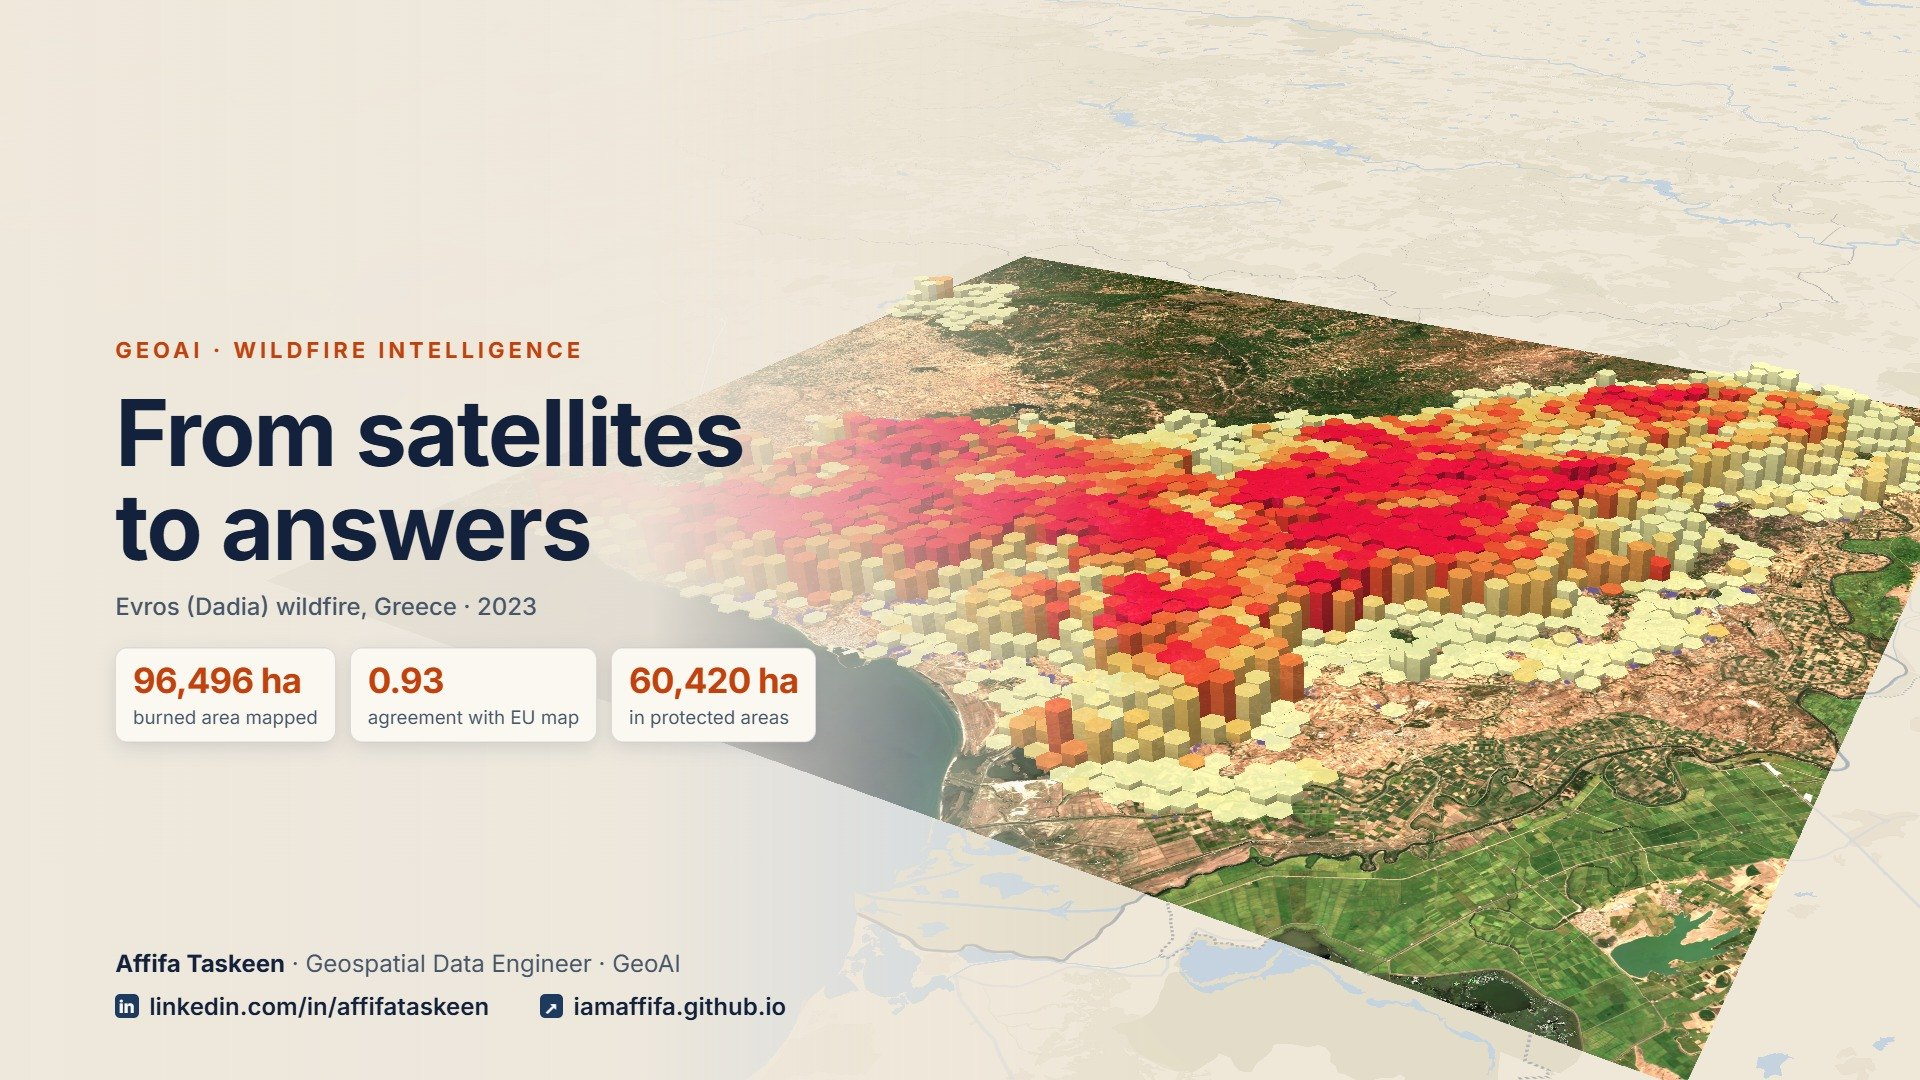
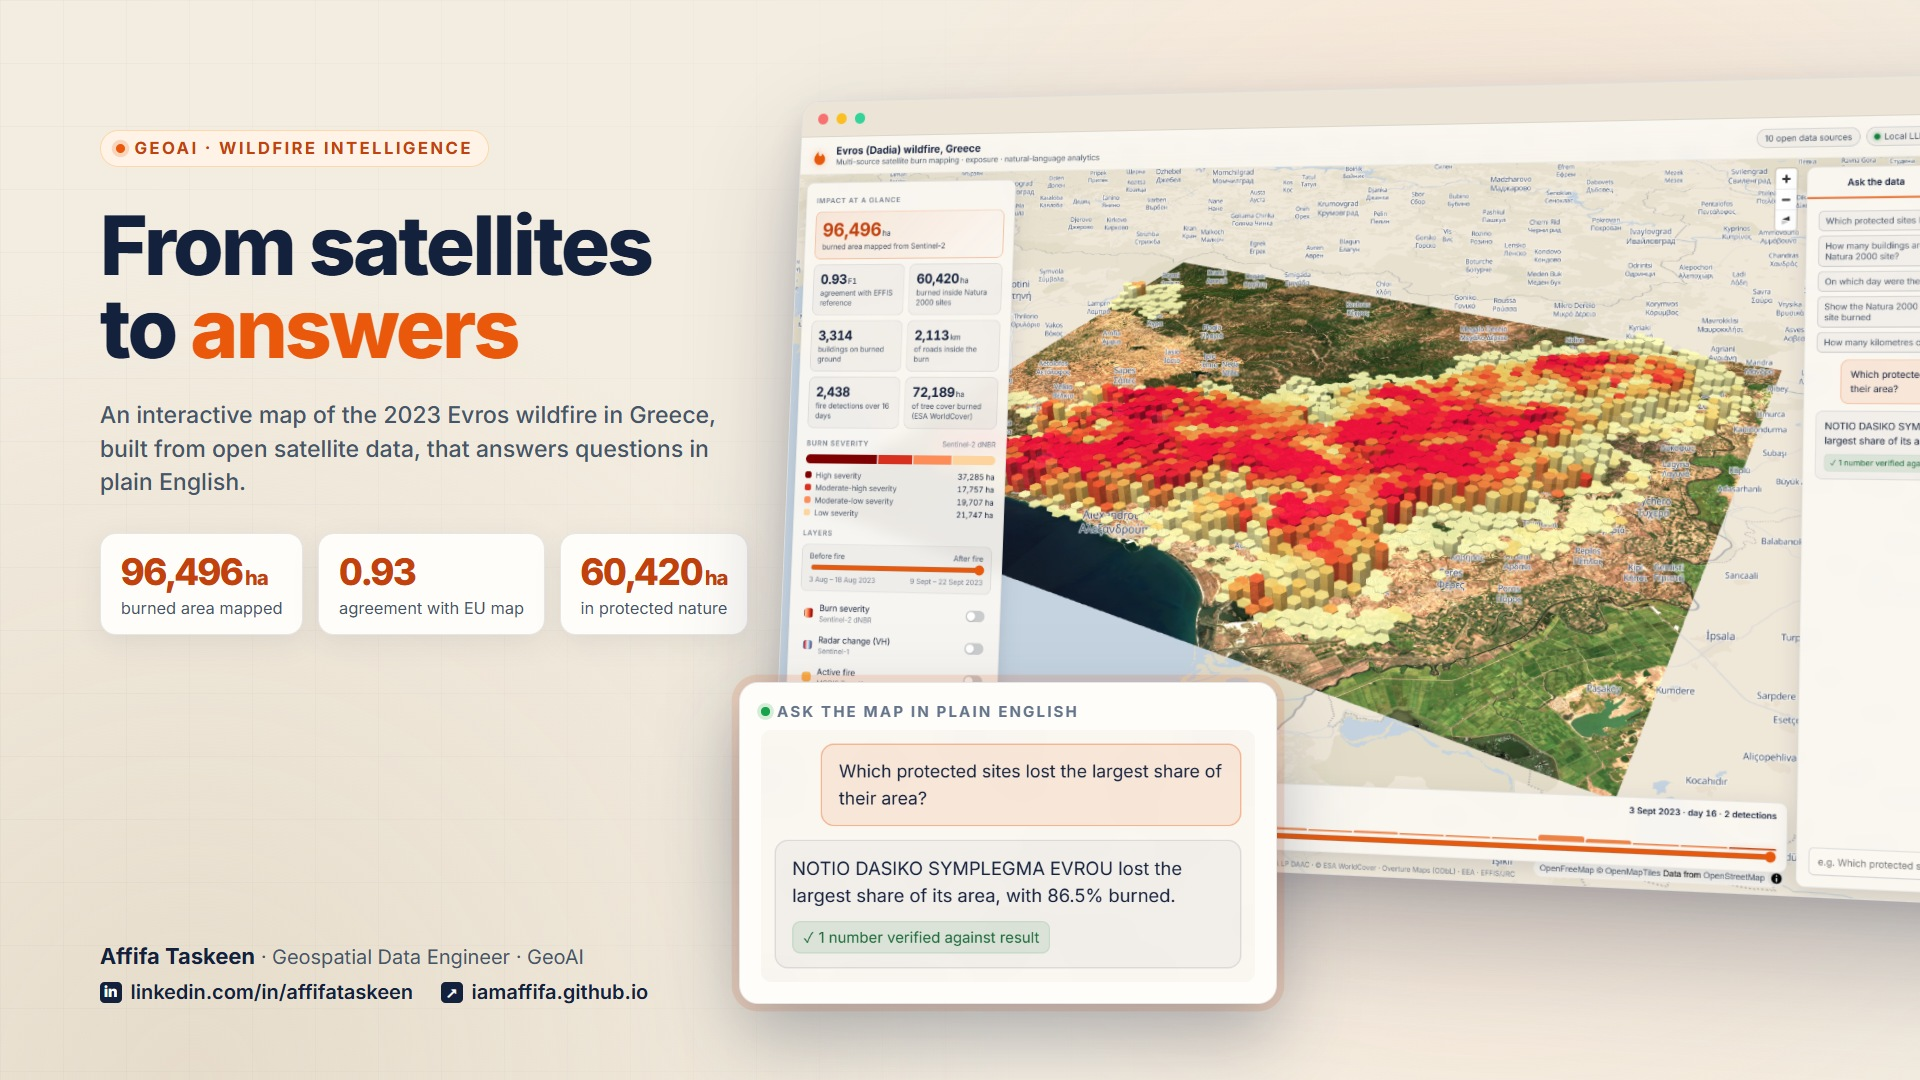
Update wildfire demo cover image

diff --git a/index.html b/index.html
@@ -68,7 +68,7 @@
       <div class="featured">
         <div class="featured-video">
           <video src="videos/wildfire-geoai-demo.mp4"
-                 poster="videos/wildfire-geoai-demo.jpg"
+                 poster="videos/wildfire-geoai-demo.jpg?v=2"
                  controls preload="metadata" playsinline></video>
         </div>
         <div class="featured-copy">

diff --git a/data.js b/data.js
@@ -29,7 +29,7 @@ window.PORTFOLIO = {
       location: { name: "Evros (Dadia), Greece", coords: [26.0, 41.0] },
       video: {
         src: "videos/wildfire-geoai-demo.mp4",
-        poster: "videos/wildfire-geoai-demo.jpg",
+        poster: "videos/wildfire-geoai-demo.jpg?v=2",
       },
     },
     {
